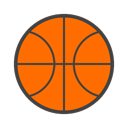
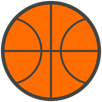
fix(ball): crop basketball.png to content

diff --git a/main.go b/main.go
@@ -109,7 +109,7 @@ func renderer() {
 			win,
 			pixel.IM.Scaled(
 				pixel.ZV,
-				2*config.Radius*config.Scale/128,
+				2*config.Radius*config.Scale/102,
 			).Moved(
 				pixel.V(
 					win.Bounds().Center().X,
